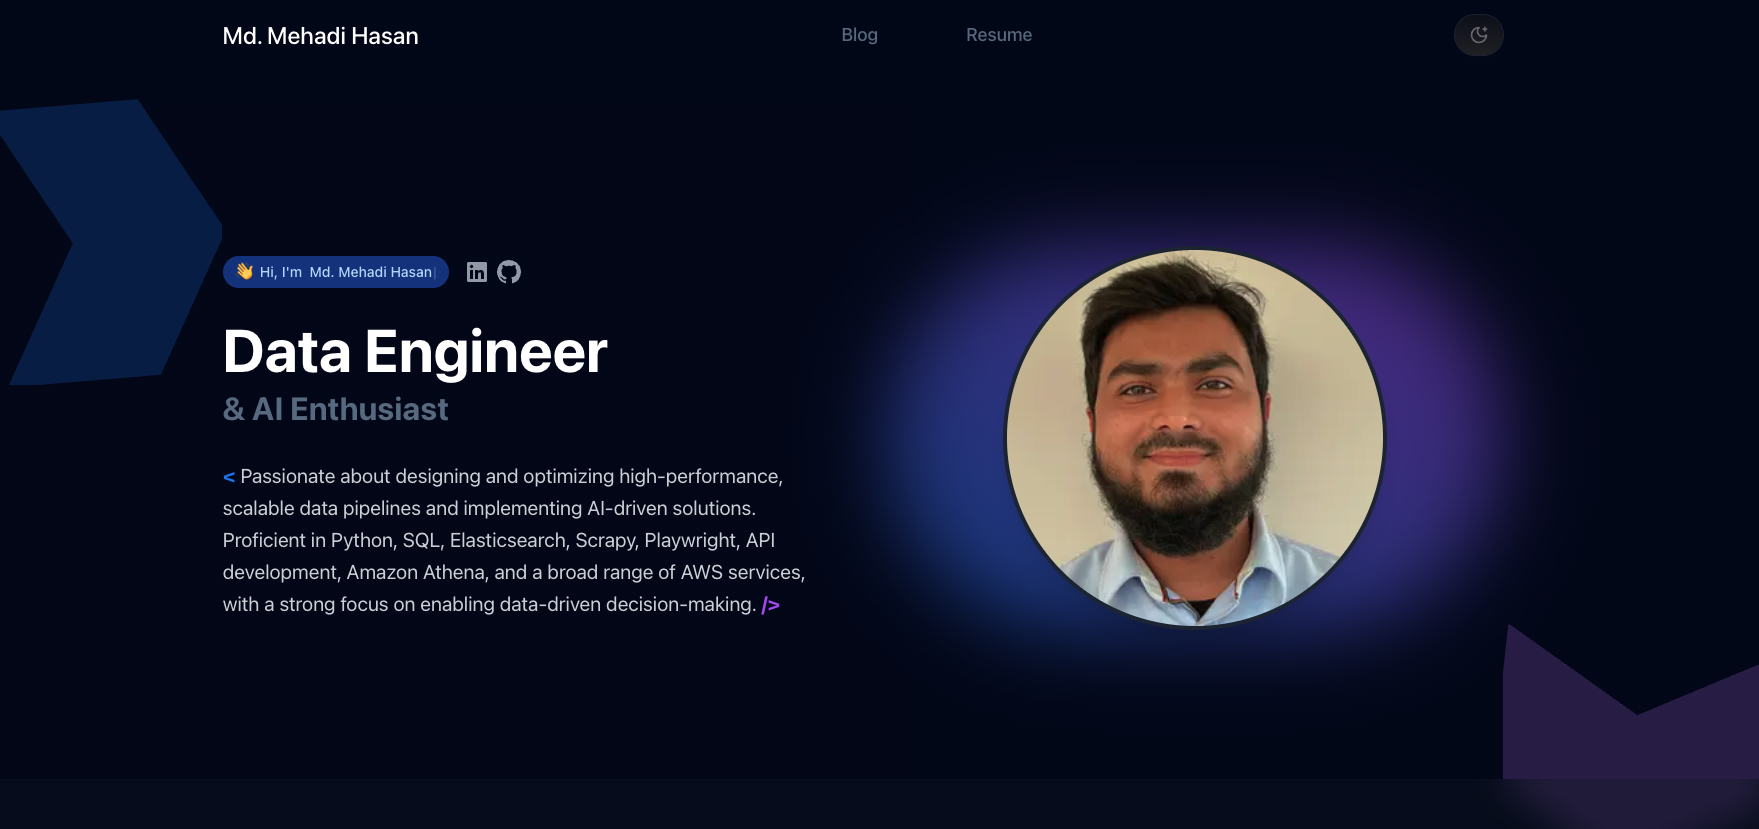
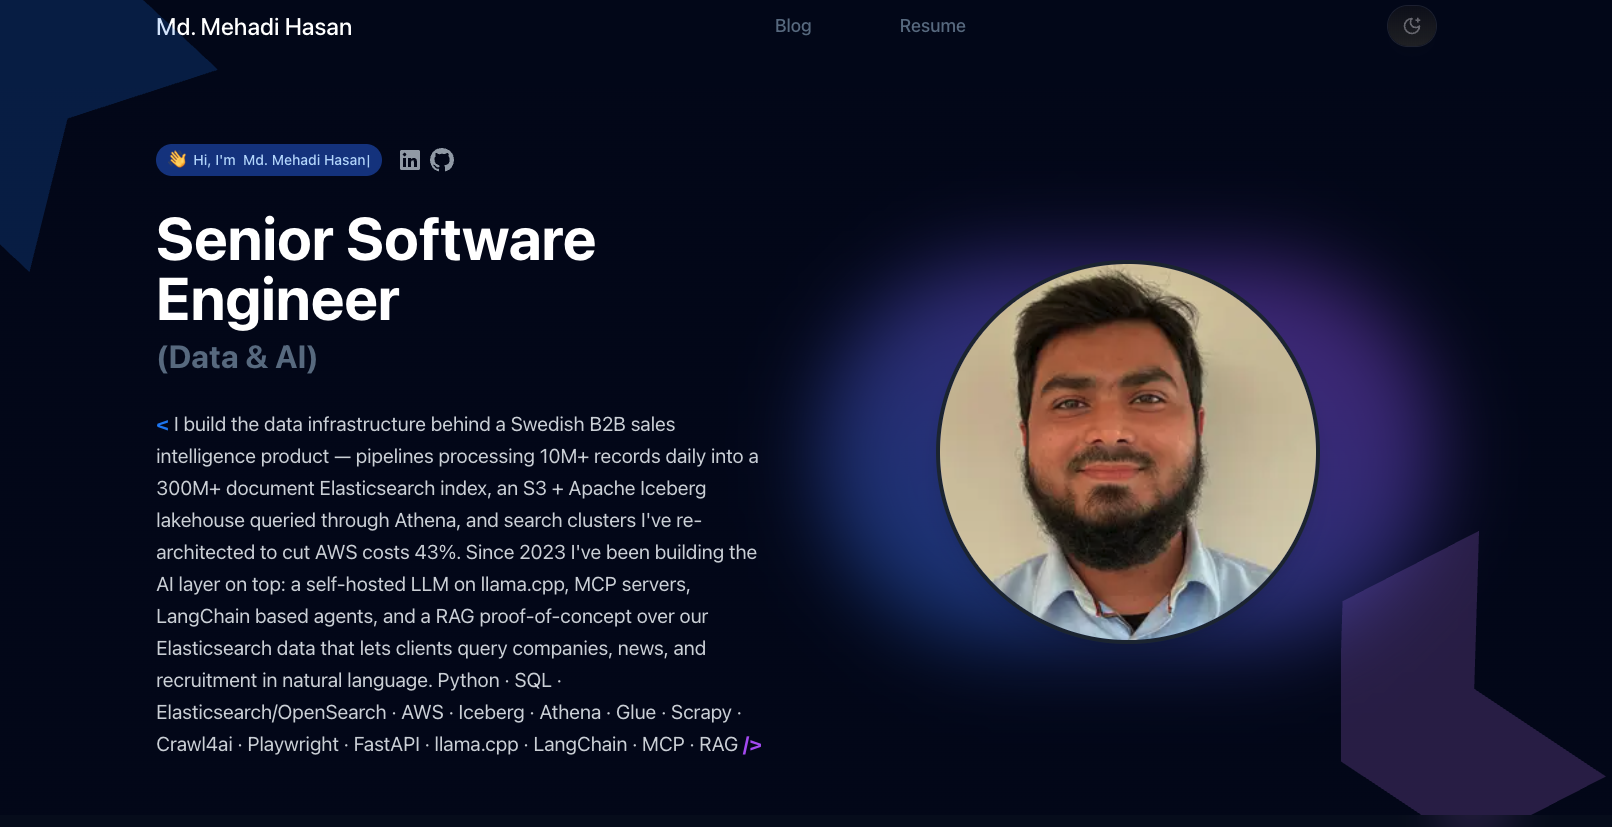
Update SEO meta data and preview image

diff --git a/utils/seo.ts b/utils/seo.ts
@@ -1,6 +1,6 @@
 export function getSiteMetaData({
   title = 'Md. Mehadi Hasan | Senior Data & AI Engineer',
-  description = 'Senior Software Engineer (Data team) at Goava | Data Engineering | Elasticsearch | DevOps (AWS) | SQL | ETL | Scraping | Microservices | AI - Helping people by data storytelling to make high valuable business decisions.',
+  description = 'SSE | Data Engineering & AI | Python, Elasticsearch, SQL, ETL/ELT, Iceberg Lakehouse, Athena, AWS, LLM, MCP, RAG | 6 yrs, 10M+ records/day, 300M+ curated docs | Open to remote & relocation.',
   type = 'website',
   author = '@mehadihasan',
   images = ['https://mehadihasan-com.vercel.app/images/og/website.png'],
@@ -9,11 +9,12 @@ export function getSiteMetaData({
     'Data Engineer',
     'AI Engineer',
     'Elasticsearch',
-    'Scrapy',
     'SQL',
     'Data modeling',
-    'ETL',
-    'Data pipeline',
+    'ETL/ELT',
+    'Iceberg Lakehouse',
+    'Athena',
+    'Scrapy',
     'Crawl4ai',
     'Playwright',
     'FastAPI',
@@ -21,7 +22,8 @@ export function getSiteMetaData({
     'AWS',
     'LLM',
     'AI',
-    'Machine Learning'
+    'MCP',
+    'RAG',
   ],
 }: {
   title?: string;
